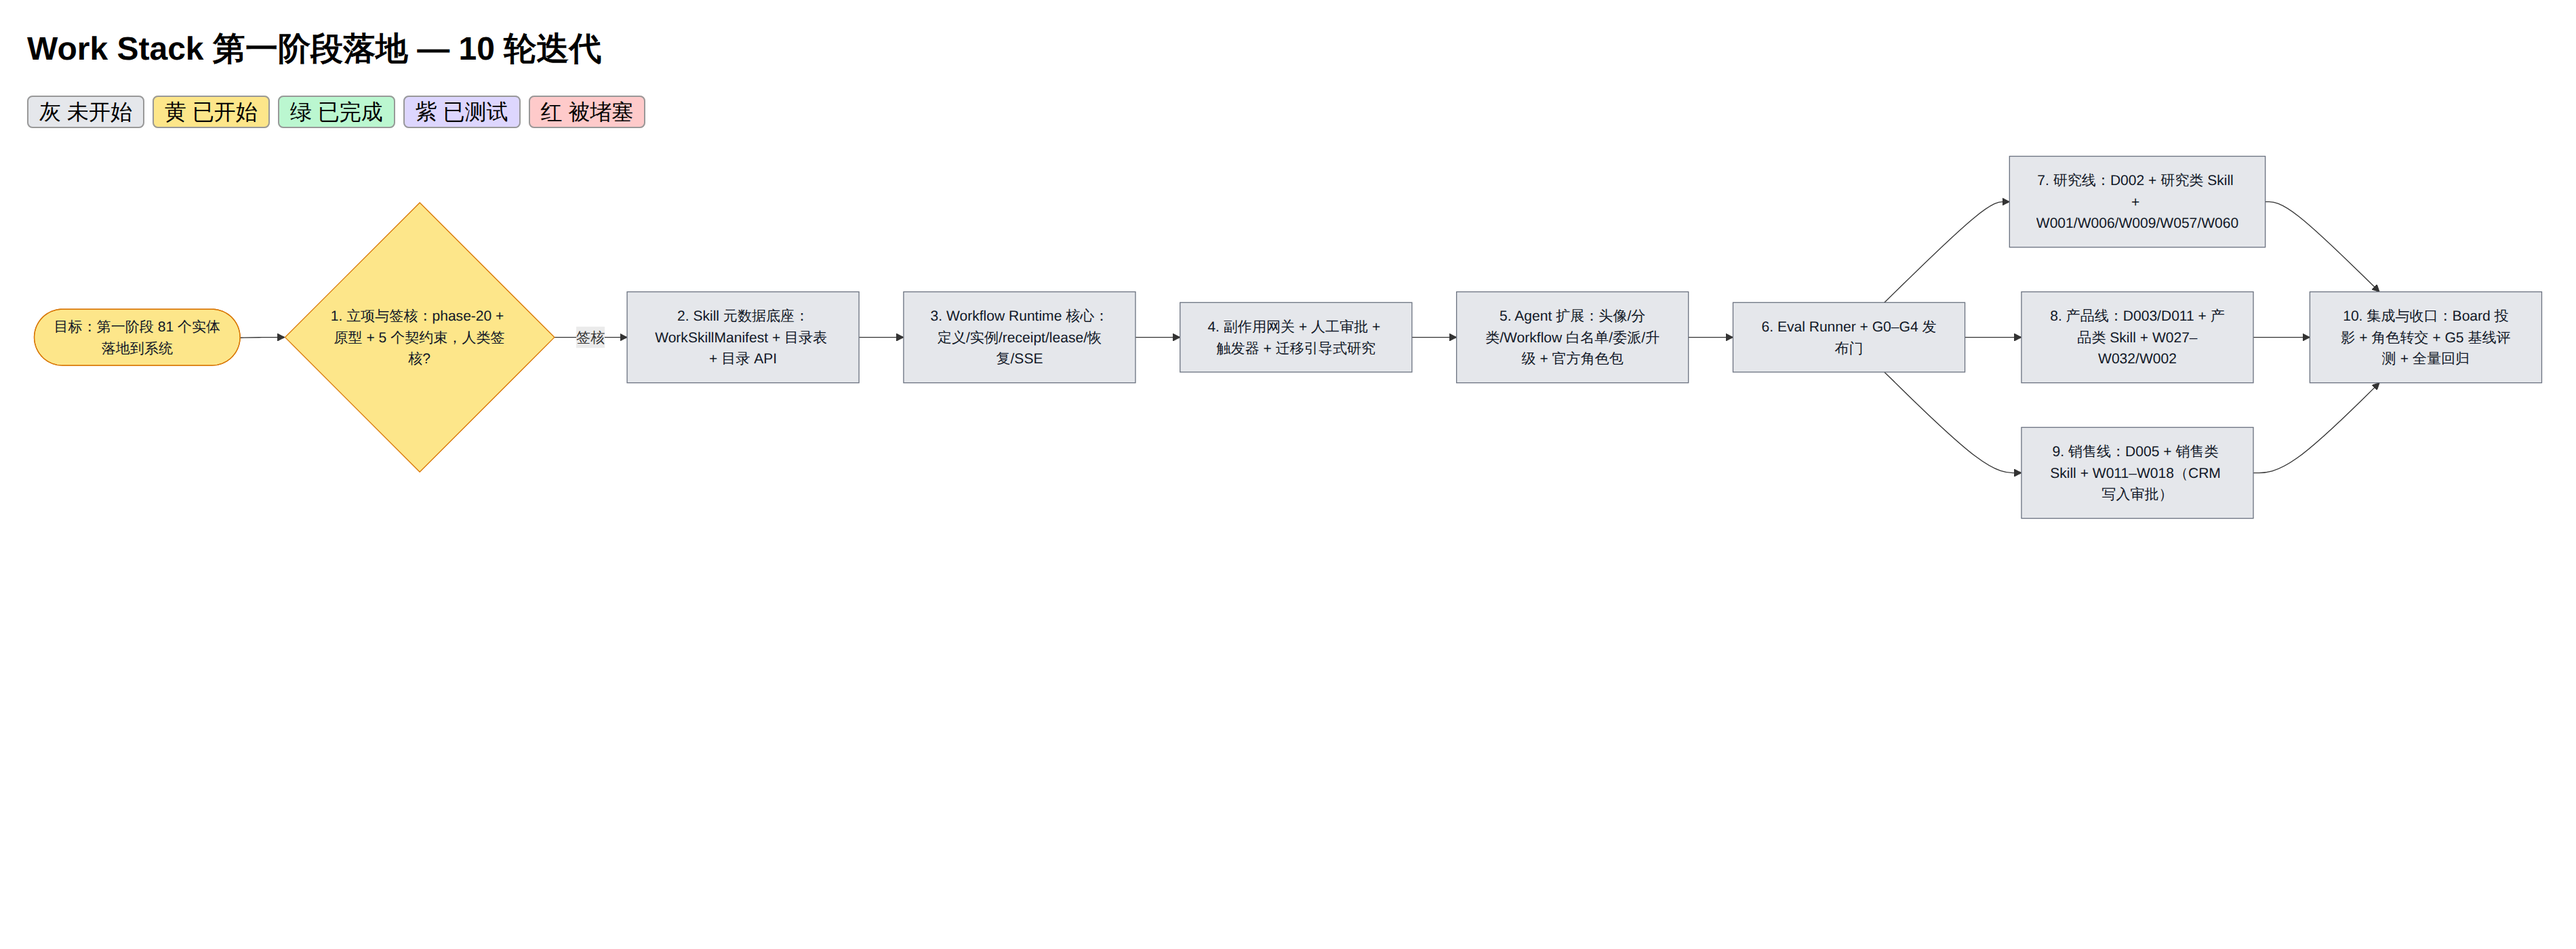
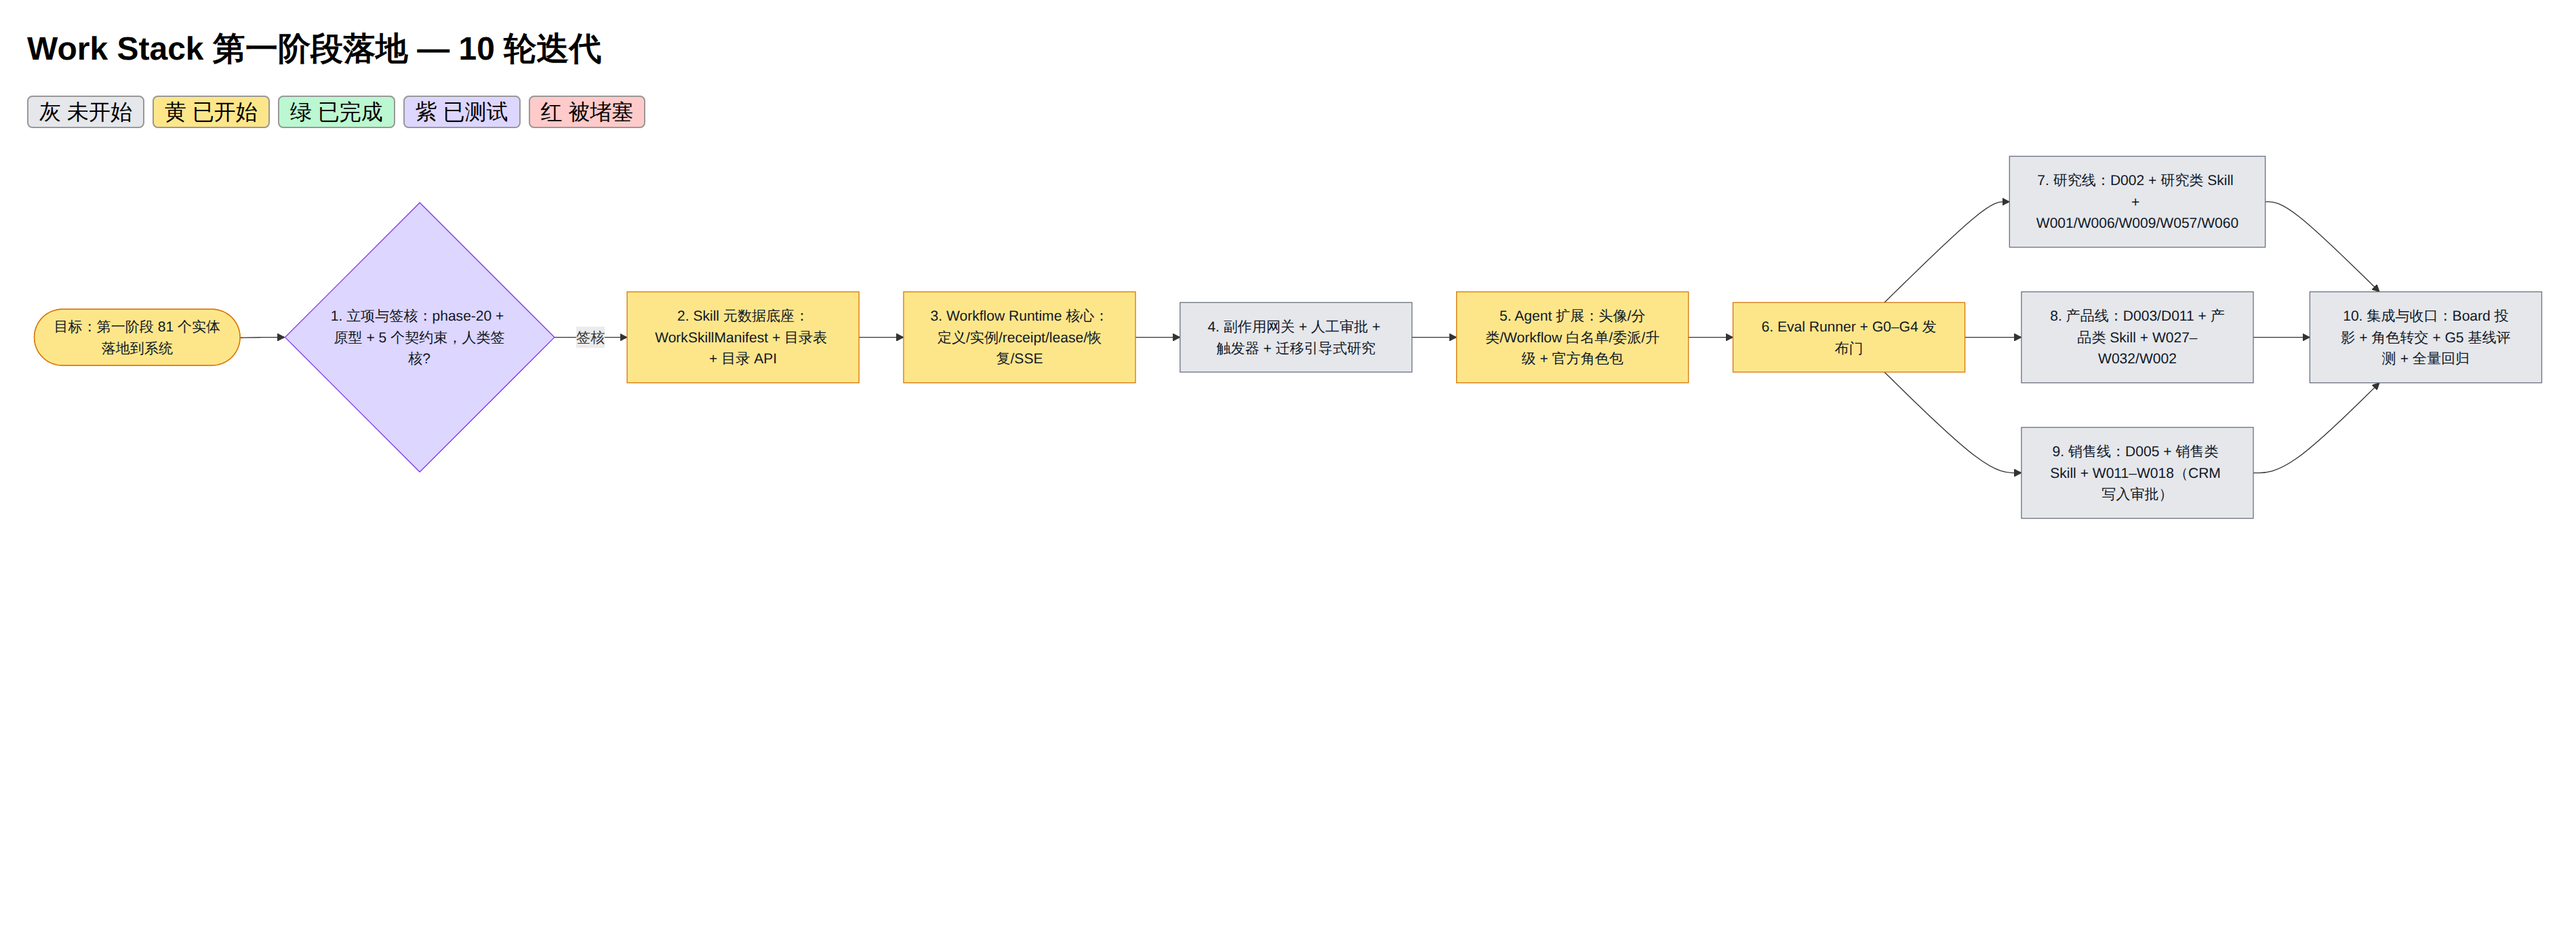
docs(plan): iteration progress update
Claude-Session: https://claude.ai/code/session_01AktcNKdGsxfAT96ihaeZsq

Changed region(s): [[0.0932, 0.215, 0.4658, 0.4914], [0.5589, 0.3071, 0.7763, 0.43]]

diff --git a/docs/proposals/WORK-STACK-PHASE1-IMPL.plan.md b/docs/proposals/WORK-STACK-PHASE1-IMPL.plan.md
@@ -39,7 +39,8 @@ flowchart TD
   classDef blocked fill:#fecaca,stroke:#dc2626,color:#111827
 
   class G doing
-  class I1 done
+  class I1 tested
+  %% evidence I1: validate-fl/lint 全绿；人类在 GitHub 签核 5 束 + 一致性复核；harness doctor --phase 20 = 0 FAIL
   class I2 doing
   class I3 doing
   class I4 todo
@@ -73,3 +74,6 @@ flowchart TD
 | 2026-09-28 | G, I1 | todo → doing | 接到目标：第一阶段按 10 轮迭代落地，每轮验收 |
 | 2026-09-28 | I1 | doing → done | phase-20 建立：5 份需求、36 个 feature（189 点，validate-fl 通过）、5 个契约束 + zod 契约、界面原型与截图；门控除签核外全绿；设计签核与一致性复核待人类补签（已授权先行开发） |
 | 2026-09-28 | I2, I3, I5, I6 | todo → doing | 人类允许每轮独立分支；并行开工：第 2 轮 WS01–WS05、第 3 轮 WF01–WF03、第 5 轮 AG01–AG02、第 6 轮 EV01–EV03（各自 worktree，无依赖冲突） |
+| 2026-09-28 | I1 | done → tested | 人类签核完成，doctor 0 FAIL；PR #4577 待 CI 绿后合入 |
+| 2026-09-28 | I2 | doing | WS01–WS05 开发与评审完成，真实旅程验收进行中 |
+| 2026-09-28 | I6 | doing | EV01–EV03 验收 ACCEPT，PR #4601；EV04 待 WS03 合入后做 |
